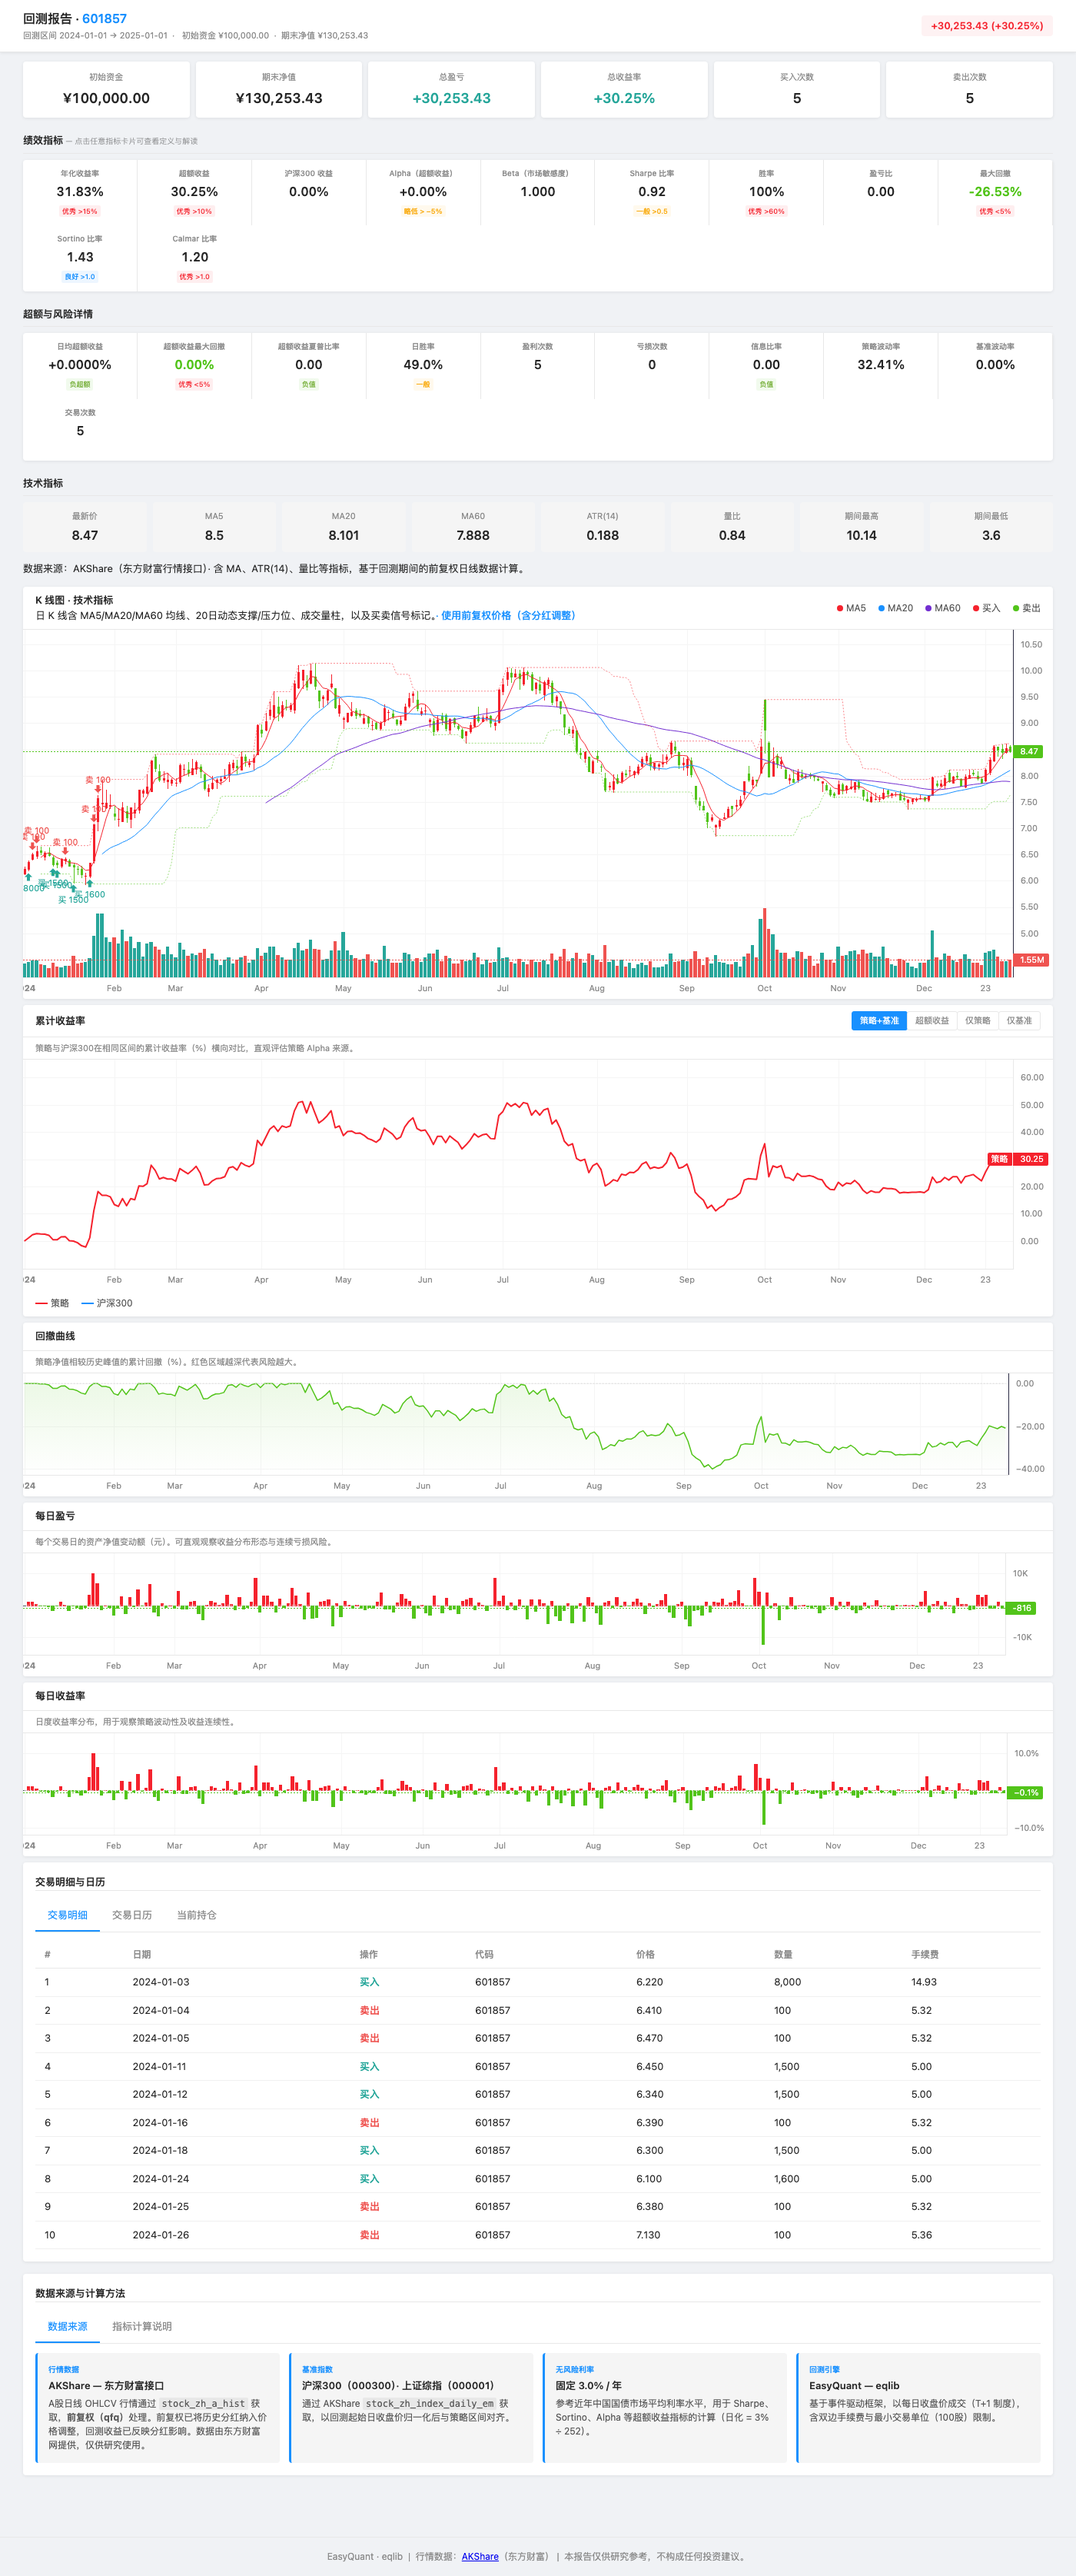
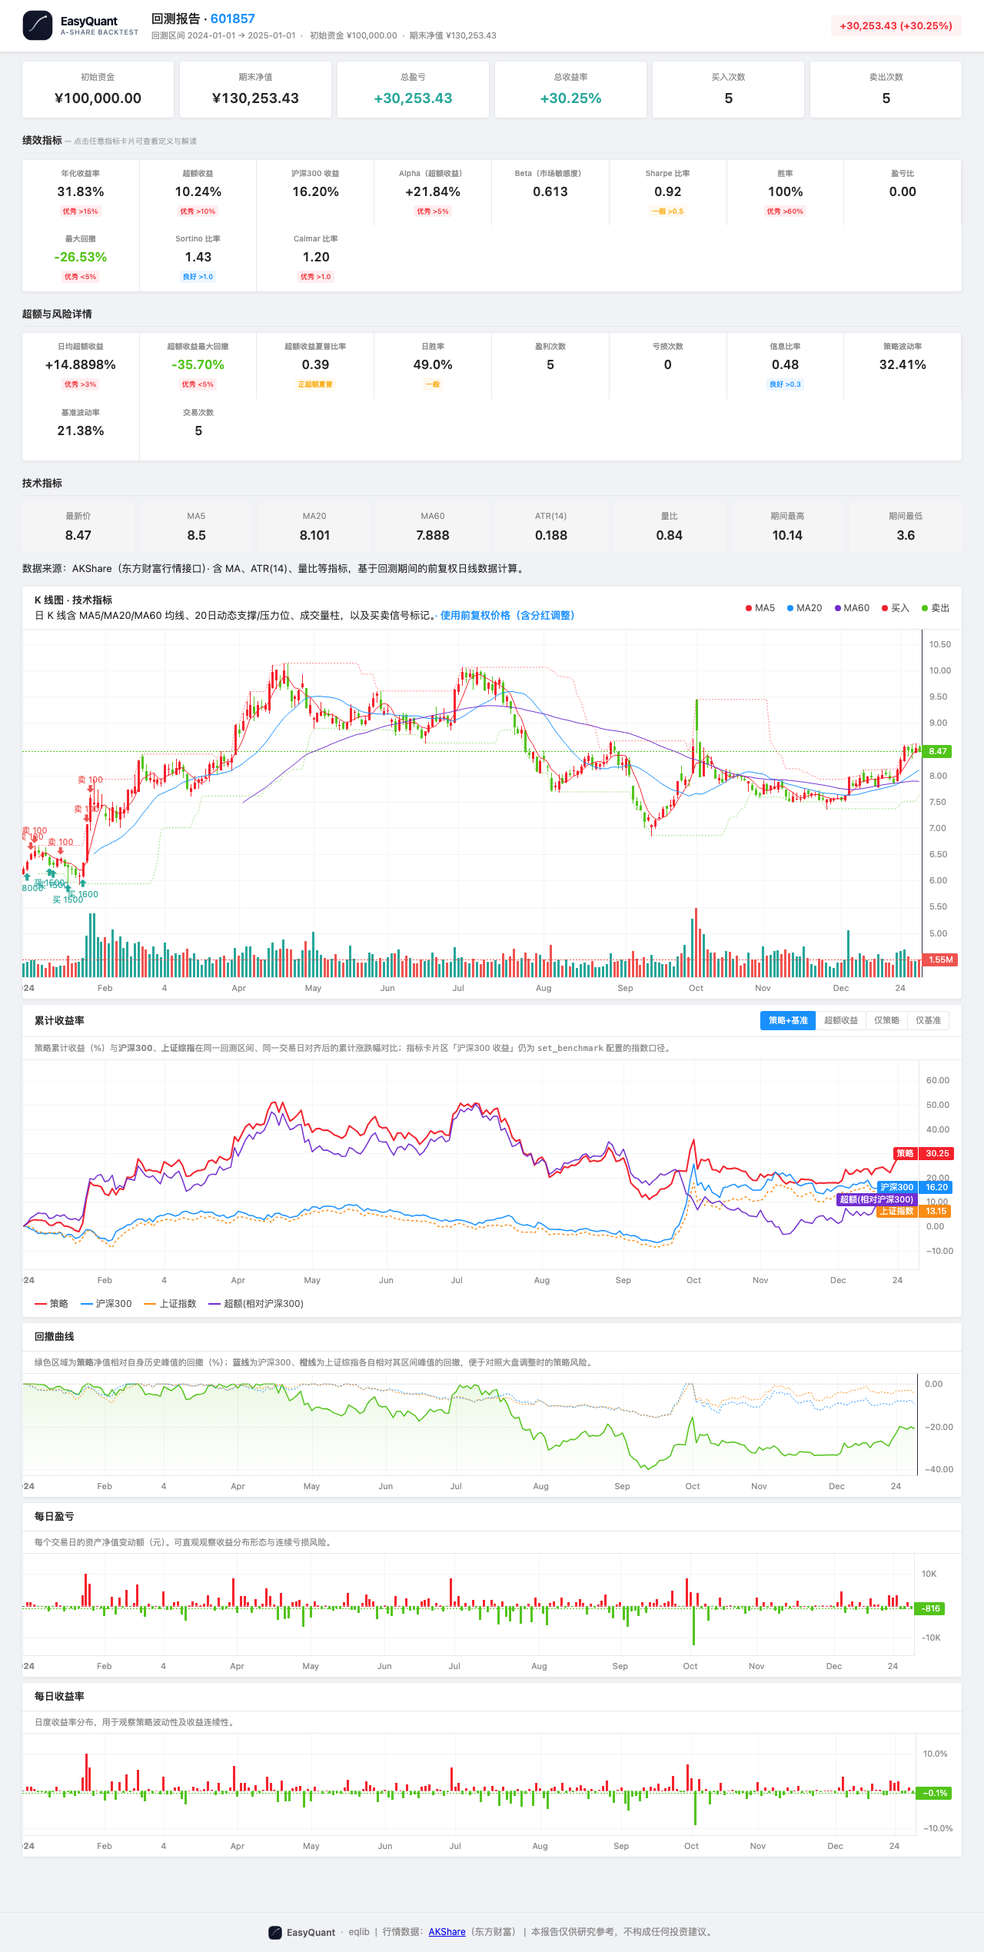
docs: refresh HTML report screenshots with dual index charts
Regenerate all 8 example HTML report screenshots using the new
report template that includes CSI300 and SSE index comparison
lines on cumulative return and drawdown charts. Screenshots now
capture the full page from top through daily returns, excluding
trade-detail and calendar sections.

Also add screenshot tooling (tools/take_screenshots.py,
tools/regen_screenshots.py) for future re-generation.

diff --git a/tools/regen_screenshots.py b/tools/regen_screenshots.py
@@ -1,0 +1,139 @@
+"""Regenerate HTML report screenshots for all example strategies.
+
+Runs each example script to produce a fresh HTML report, then uses
+Playwright to screenshot the charts section (up to daily returns,
+excluding trade detail / calendar tables below).
+
+Usage:
+    PYTHONPATH=. python tools/regen_screenshots.py
+"""
+import os
+import glob
+import time
+import subprocess
+import sys
+
+SCREENSHOT_MAP = [
+    # (example_script, screenshot_filename, working_dir)
+    # working_dir is relative to repo root; None = repo root
+    ("examples/14_bollinger_strategy.py",       "example_report_html_bollinger.png",        None),
+    ("examples/15_macd_volume_strategy.py",      "example_report_html_macd_volume.png",      None),
+    ("examples/16_multi_factor_strategy.py",     "example_report_html_multifactor.png",      None),
+    ("examples/17_grid_trading_strategy.py",     "example_report_html_grid.png",             None),
+    ("examples/19_local_data_backtest.py",       "example_report_html_19_localdata.png",     None),
+    ("examples/20_sr_strategy/run_backtest.py",  "example_report_html_sr_strategy.png",      "examples/20_sr_strategy"),
+    ("examples/22_stock_selection_strategy.py",  "example_report_html_stock_selection.png",  None),
+    ("examples/12_portfolio_backtest.py",        "example_report_html_portfolio.png",        None),
+]
+
+OUTPUT_DIR = "tutorials/assets"
+SCREENSHOT_HEIGHT = 1800  # px — covers K-line through daily returns
+VIEWPORT_WIDTH = 1280
+VIEWPORT_HEIGHT = 900
+
+
+def find_latest_html(pattern="reports/backtest_*.html"):
+    """Find the most recently modified HTML report matching glob."""
+    files = glob.glob(pattern)
+    if not files:
+        return None
+    return max(files, key=os.path.getmtime)
+
+
+def run_example(script, work_dir=None):
+    """Run an example script and return the latest HTML report path."""
+    env = os.environ.copy()
+    env["PYTHONPATH"] = os.getcwd()
+    cwd = work_dir if work_dir else os.getcwd()
+    print(f"\n▶ Running {script} (cwd={cwd})...")
+    result = subprocess.run(
+        [sys.executable, script],
+        cwd=cwd,
+        env=env,
+        capture_output=True,
+        text=True,
+        timeout=300,
+    )
+    # Show last few lines of output
+    lines = result.stdout.strip().split("\n")
+    for line in lines[-6:]:
+        print(f"    {line}")
+    if result.returncode != 0:
+        print(f"    STDERR: {result.stderr[-500:]}")
+        return None
+
+    # Find the HTML report
+    if work_dir:
+        pattern = os.path.join(work_dir, "reports", "backtest_*.html")
+    else:
+        pattern = "reports/backtest_*.html"
+    return find_latest_html(pattern)
+
+
+def screenshot_html(html_path, screenshot_name):
+    """Use Playwright to screenshot the charts section of an HTML report."""
+    from playwright.sync_api import sync_playwright
+
+    out_path = os.path.join(OUTPUT_DIR, screenshot_name)
+    os.makedirs(OUTPUT_DIR, exist_ok=True)
+
+    with sync_playwright() as p:
+        browser = p.chromium.launch(headless=True)
+        page = browser.new_page(viewport={"width": VIEWPORT_WIDTH, "height": VIEWPORT_HEIGHT})
+        page.goto(f"file://{os.path.abspath(html_path)}")
+        # Wait for charts to render
+        page.wait_for_timeout(3000)
+
+        # Screenshot only the returns section (charts down to daily returns)
+        # Strategy: screenshot from top of page to just past daily returns chart
+        page.evaluate("""() => {
+            // Hide the trade detail / calendar / position sections at the bottom
+            const el = document.getElementById('trade-section');
+            if (el) el.style.display = 'none';
+            const cal = document.getElementById('calendar');
+            if (cal) cal.style.display = 'none';
+            const pos = document.getElementById('positions');
+            if (pos) pos.style.display = 'none';
+            const metrics = document.getElementById('metrics-table-section');
+            if (metrics) metrics.style.display = 'none';
+        }""")
+        page.wait_for_timeout(500)
+
+        # Take a full-page screenshot, then we'll clip it
+        page.screenshot(path=out_path, full_page=False)
+        browser.close()
+
+    print(f"  ✓ Screenshot saved: {out_path}")
+    return out_path
+
+
+def main():
+    print("=" * 60)
+    print("Regenerating HTML report screenshots")
+    print("=" * 60)
+
+    success = 0
+    failed = []
+
+    for script, screenshot_name, work_dir in SCREENSHOT_MAP:
+        html_path = run_example(script, work_dir)
+        if html_path is None:
+            failed.append((script, "no HTML report found"))
+            continue
+
+        print(f"  HTML report: {html_path}")
+        try:
+            screenshot_html(html_path, screenshot_name)
+            success += 1
+        except Exception as e:
+            failed.append((script, str(e)))
+
+    print(f"\n{'=' * 60}")
+    print(f"Done: {success} succeeded, {len(failed)} failed")
+    for script, err in failed:
+        print(f"  ✗ {script}: {err}")
+    print(f"{'=' * 60}")
+
+
+if __name__ == "__main__":
+    main()

diff --git a/tools/take_screenshots.py b/tools/take_screenshots.py
@@ -1,0 +1,93 @@
+"""Take screenshots of existing HTML reports.
+
+Maps each existing HTML report to its screenshot filename, then uses
+Playwright to capture the entire page from top down to daily returns,
+hiding ONLY the trade-detail, calendar, and positions sections at the bottom.
+
+Usage:
+    PYTHONPATH=. python tools/take_screenshots.py
+"""
+import os
+import glob
+from playwright.sync_api import sync_playwright
+
+SCREENSHOT_MAP = [
+    ("reports/backtest_20260513_000712.html",          "example_report_html_bollinger.png"),
+    ("reports/backtest_20260513_000723.html",          "example_report_html_macd_volume.png"),
+    ("reports/backtest_20260513_000859.html",          "example_report_html_multifactor.png"),
+    ("reports/backtest_20260513_000910.html",          "example_report_html_grid.png"),
+    ("reports/backtest_20260513_000934.html",          "example_report_html_19_localdata.png"),
+    ("reports/backtest_20260513_001351.html",          "example_report_html_sr_strategy.png"),
+    ("reports/backtest_20260513_000042.html",          "example_report_html_stock_selection.png"),
+    ("reports/backtest_20260513_002121_momentum_v2.html", "example_report_html_portfolio.png"),
+]
+
+OUTPUT_DIR = "tutorials/assets"
+VIEWPORT_WIDTH = 1280
+VIEWPORT_HEIGHT = 900
+
+
+def screenshot_html(html_path, screenshot_name):
+    """Use Playwright to screenshot the full page except trade/calendar/positions."""
+    out_path = os.path.join(OUTPUT_DIR, screenshot_name)
+    os.makedirs(OUTPUT_DIR, exist_ok=True)
+
+    with sync_playwright() as p:
+        browser = p.chromium.launch(headless=True)
+        page = browser.new_page(viewport={"width": VIEWPORT_WIDTH, "height": VIEWPORT_HEIGHT})
+        page.goto(f"file://{os.path.abspath(html_path)}")
+        page.wait_for_timeout(3000)
+
+        # Hide bottom-only sections; keep everything from top through daily returns
+        page.evaluate("""() => {
+            const ids = ['trade-section', 'trade-detail', 'trade-detail-table',
+                         'calendar', 'calendar-table', 'positions', 'positions-table'];
+            ids.forEach(function(id) {
+                const el = document.getElementById(id);
+                if (el) { el.style.display = 'none'; el.style.height = '0'; el.style.overflow = 'hidden'; }
+            });
+            // Also try to hide any parent divs that wrap these
+            document.querySelectorAll('.section, .card, .tab').forEach(function(sec) {
+                if (sec.textContent.indexOf('成交') > -1 ||
+                    sec.textContent.indexOf('日历') > -1 ||
+                    sec.textContent.indexOf('持仓') > -1) {
+                    sec.style.display = 'none';
+                }
+            });
+        }""")
+        page.wait_for_timeout(1000)
+
+        # Full-page screenshot captures from top down through the last visible element
+        page.screenshot(path=out_path, full_page=True)
+        browser.close()
+
+    print(f"  Screenshot saved: {out_path}")
+    return out_path
+
+
+def main():
+    print("Taking screenshots of existing HTML reports...")
+
+    success = 0
+    failed = []
+
+    for html_path, screenshot_name in SCREENSHOT_MAP:
+        if not os.path.exists(html_path):
+            failed.append((html_path, "file not found"))
+            print(f"  NOT FOUND: {html_path}")
+            continue
+
+        print(f"  Report: {html_path}")
+        try:
+            screenshot_html(html_path, screenshot_name)
+            success += 1
+        except Exception as e:
+            failed.append((html_path, str(e)))
+
+    print(f"\nDone: {success} succeeded, {len(failed)} failed")
+    for path, err in failed:
+        print(f"  FAIL: {path}: {err}")
+
+
+if __name__ == "__main__":
+    main()
